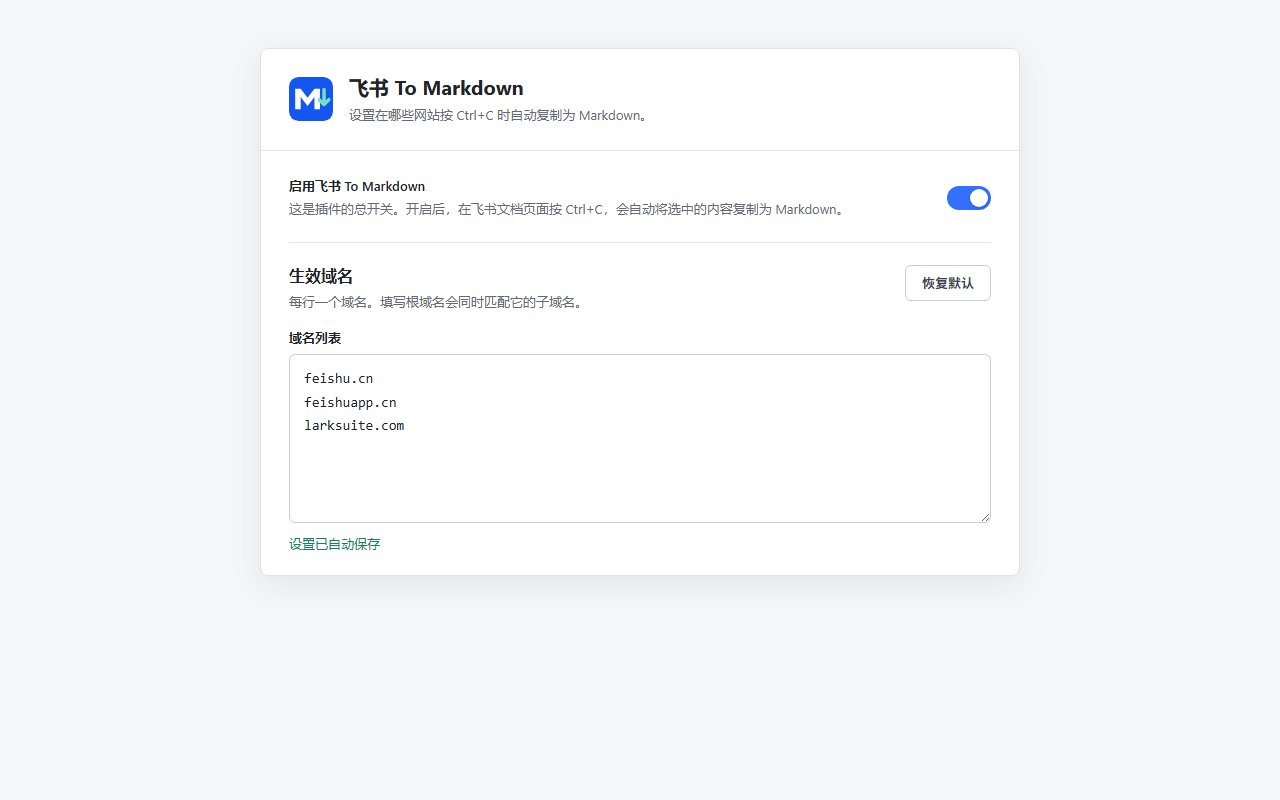
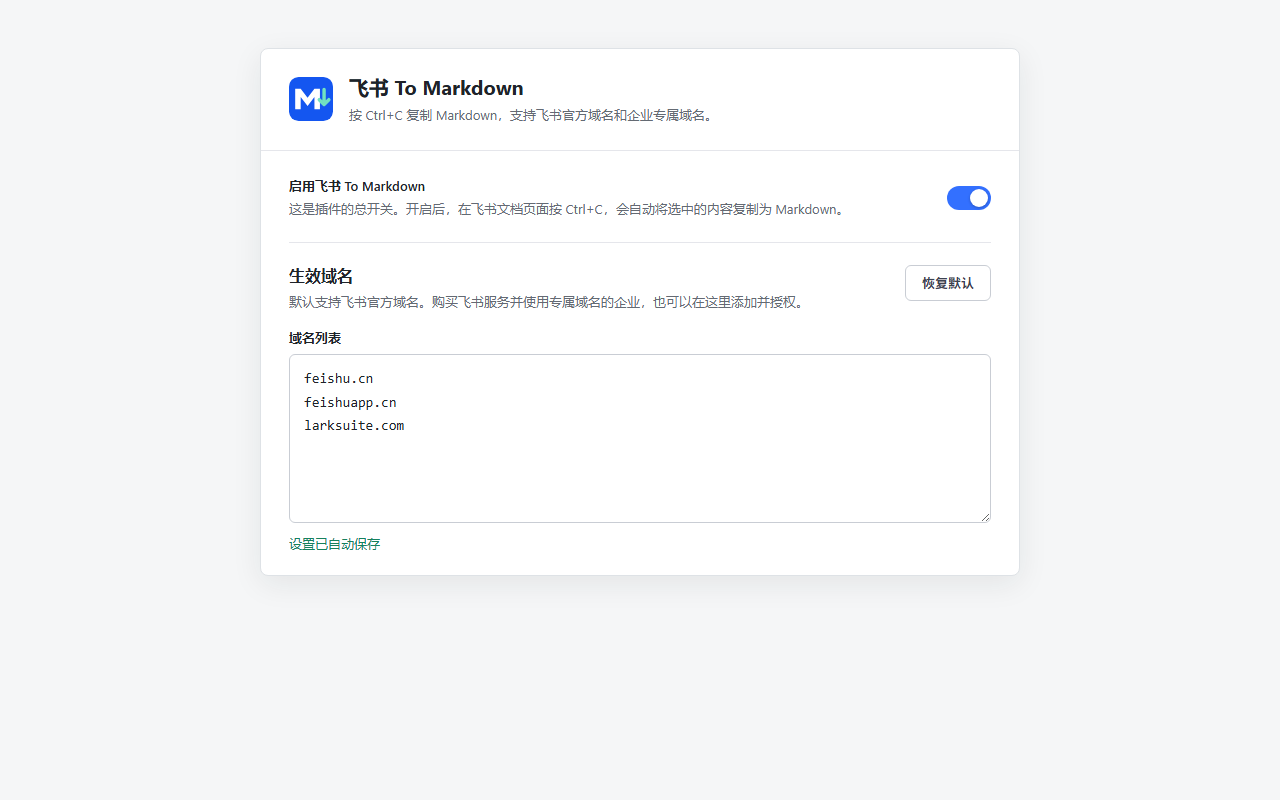
Highlight enterprise custom domain support

Changed region(s): [[0.2188, 0.3438, 0.625, 0.4062], [0.2812, 0.125, 0.5625, 0.1562]]

diff --git a/options.html b/options.html
@@ -12,7 +12,7 @@
       <img class="logo" src="icon.svg" alt="飞书 To Markdown">
       <div>
         <h1>飞书 To Markdown</h1>
-        <p>设置在哪些网站按 Ctrl+C 时自动复制为 Markdown。</p>
+        <p>按 Ctrl+C 复制 Markdown，支持飞书官方域名和企业专属域名。</p>
       </div>
     </header>
 
@@ -29,7 +29,7 @@
       <div class="section-head">
         <div>
           <h2 id="domains-title">生效域名</h2>
-          <p>每行一个域名。填写根域名会同时匹配它的子域名，也可以写成 <code>*.example.com</code>。</p>
+          <p>默认支持飞书官方域名。购买飞书服务并使用专属域名的企业，也可以在这里添加并授权。每行一个域名。</p>
         </div>
         <button class="secondary" id="reset" type="button">恢复默认</button>
       </div>

diff --git a/store-assets/listing-zh-CN.md b/store-assets/listing-zh-CN.md
@@ -2,6 +2,8 @@
 
 飞书 To Markdown 是一款专注于文档复制场景的 Edge 扩展。在飞书文档中选中一个或多个内容块后，直接按下 Ctrl+C，扩展会等待飞书完成原生富文本复制，在浏览器本地将标题、粗体、斜体、删除线、链接、图片、列表、任务列表、引用、代码块和表格等常见结构转换为 Markdown，并将结果写回剪贴板。你可以随后直接粘贴到代码仓库、知识库、笔记工具或 AI 对话中，无需打开中间转换页面。
 
+除了飞书和 Lark 官方域名，扩展还支持购买飞书服务并使用企业专属域名的文档系统。这类企业可以在设置页添加自己的访问域名，并通过 Edge 的按需授权机制单独授权，无需为插件开放所有网站的访问权限。这是飞书 To Markdown 区别于只适配公共飞书域名的转换工具的重要特点。
+
 扩展提供总开关和生效域名设置。默认支持飞书与 Lark 官方域名；企业自定义域名仅在用户主动授权后启用。扩展只响应用户主动发起的 Ctrl+C 操作，所有转换均在当前浏览器本地完成，不会上传或保存文档内容，也不包含广告、统计分析或远程代码。
 
 使用方法：安装扩展后刷新飞书文档，选中内容并按 Ctrl+C，即可获得 Markdown。点击工具栏图标可以开启或关闭功能、查看默认域名，或添加并授权企业自定义域名。
@@ -11,7 +13,7 @@
 ## 商店字段建议
 
 - 分类：生产力
-- 搜索词：飞书 Markdown, Lark Markdown, 文档转换, 富文本转换, 复制 Markdown
+- 搜索词：飞书 Markdown, 企业飞书, Lark Markdown, 文档转换, 复制 Markdown
 - 网站：https://github.com/wudi-7mi/feishu-to-markdown
 - 支持：wudi7mi@gmail.com
 - 隐私政策：https://github.com/wudi-7mi/feishu-to-markdown/blob/main/PRIVACY.md

diff --git a/README.md b/README.md
@@ -2,6 +2,8 @@
 
 飞书 To Markdown 是一个 Microsoft Edge 扩展。在飞书文档中选中内容并按下 `Ctrl+C`，扩展会读取飞书生成的富文本剪贴板，在浏览器本地转换为 Markdown，然后写回剪贴板。
 
+除飞书和 Lark 官方域名外，扩展也支持购买飞书服务并使用企业专属域名的文档系统。用户可以在设置页添加自己的企业域名，并通过 Edge 的按需授权机制，仅向该域名授予扩展访问权限。
+
 - 项目主页：https://github.com/wudi-7mi/feishu-to-markdown
 - 支持邮箱：wudi7mi@gmail.com
 - 隐私政策：https://github.com/wudi-7mi/feishu-to-markdown/blob/main/PRIVACY.md
@@ -11,7 +13,7 @@
 - 使用 `Ctrl+C` 直接复制 Markdown，不需要打开中间转换页面。
 - 支持标题、粗体、斜体、删除线、链接、图片、列表、任务列表、引用、代码块和表格等常见格式。
 - 默认支持飞书和 Lark 官方域名。
-- 企业自定义域名采用按需授权，不申请全站必选访问权限。
+- 支持购买飞书服务企业使用的专属自定义域名，并采用按需授权，不申请全站必选访问权限。
 - 所有转换均在浏览器本地完成，不上传或保存文档内容。
 
 ## 本地安装

diff --git a/store-assets/partner-center-values.md b/store-assets/partner-center-values.md
@@ -26,7 +26,7 @@
 - Detailed description：见 `listing-zh-CN.md`
 - Logo：`logo-300.png`
 - Screenshot：`screenshot-settings-1280x800.png`
-- Search terms：飞书 Markdown；Lark Markdown；文档转换；富文本转换；复制 Markdown
+- Search terms：飞书 Markdown；企业飞书；Lark Markdown；文档转换；复制 Markdown
 
 ## Developer
 
